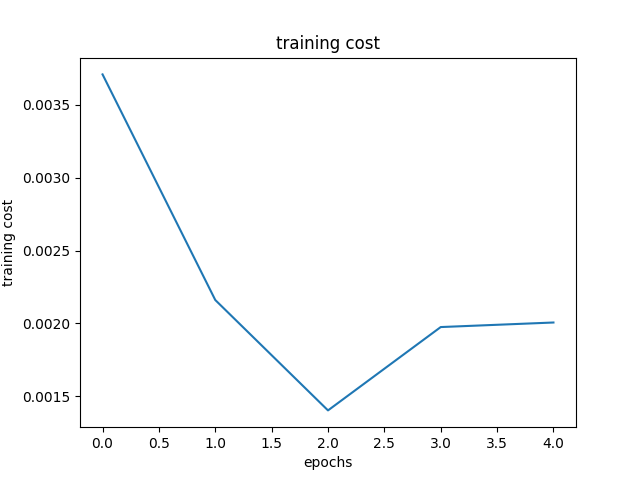
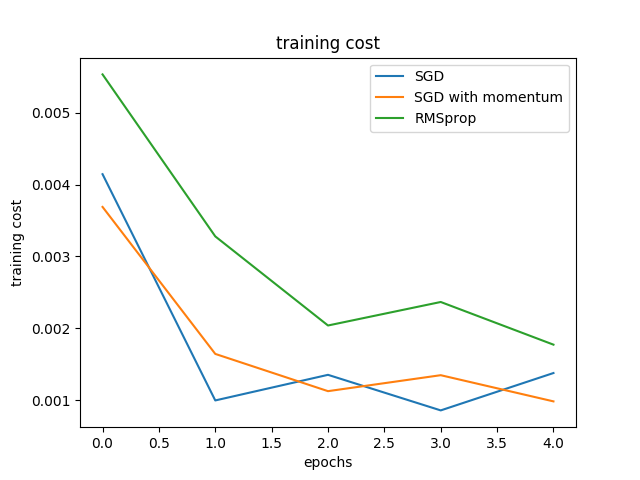
now the training cost and test accuracy are plotted on different curves

diff --git a/project_2/src/part_a/main.py b/project_2/src/part_a/main.py
@@ -76,10 +76,9 @@ def model(X, w1, b1, w2, b2, w3, b3, w4, b4):
     o2 = pool.pool_2d(y2, pool_dim, mode='max')
     o3 = T.flatten(o2, outdim=2)
 
-    #i dont know if this is a fully connected layer??
     y3 = T.nnet.sigmoid(T.dot(o3, w3) + b3)
-
     pyx = T.nnet.softmax(T.dot(y3, w4) + b4)
+    
     return y1, o1, y2, o2, pyx
 
 def sgd(cost, params, lr=0.05, decay=0.0001):
@@ -129,7 +128,7 @@ teX, teY = teX[:2000], teY[:2000]
 
 X = T.tensor4('X')
 Y = T.matrix('Y')
-print('xd2')
+print('xd200')
 num_filters1 = 15
 num_filters2 = 20
 w1, b1 = init_weights_bias4((num_filters1, 1, 9, 9), X.dtype)
@@ -155,9 +154,13 @@ train3 = theano.function(inputs=[X, Y], outputs=cost, updates=updates3, allow_in
 predict = theano.function(inputs=[X], outputs=y_x, allow_input_downcast=True)
 test = theano.function(inputs = [X], outputs=[y1, o1, y2, o2], allow_input_downcast=True)
 
-pylab.figure()
+
 a = []
 trainCost = []
+a2 = []
+trainCost2 = []
+a3 = []
+trainCost3 = []
 
 for i in range(noIters):
     trX, trY = shuffle_data (trX, trY)
@@ -168,8 +171,6 @@ for i in range(noIters):
     trainCost.append(cost/(len(trX) // batch_size))
     print(a[i])
 
-pylab.plot(range(noIters), a, label='test accuracy sgd')
-pylab.plot(range(noIters), trainCost, label='traning cost sgd')
 
 
 print('sgd with momentum ..')
@@ -178,18 +179,14 @@ set_weights_bias4((num_filters2, num_filters1, 5, 5), X.dtype, w2, b2)
 set_weights_bias2((num_filters2*3*3, 100), X.dtype, w3, b3)
 set_weights_bias2((100, 10), X.dtype, w4, b4)
 
-a = []
-trainCost = []
 for i in range(noIters):
     trX, trY = shuffle_data (trX, trY)
     for start, end in zip(range(0, len(trX), batch_size), range(batch_size, len(trX), batch_size)):
         cost = train2(trX[start:end], trY[start:end])
-    a.append(np.mean(np.argmax(teY, axis=1) == predict(teX)))
-    trainCost.append(cost/(len(trX) // batch_size))
+    a2.append(np.mean(np.argmax(teY, axis=1) == predict(teX)))
+    trainCost2.append(cost/(len(trX) // batch_size))
     print(a[i])
 
-pylab.plot(range(noIters), a, label='test accuracy sgd with momentum')
-pylab.plot(range(noIters), trainCost, label='traning cost sgd')
 
 print('RMSprop ..')
 set_weights_bias4((num_filters1, 1, 9, 9), X.dtype, w1, b1)
@@ -197,28 +194,31 @@ set_weights_bias4((num_filters2, num_filters1, 5, 5), X.dtype, w2, b2)
 set_weights_bias2((num_filters2*3*3, 100), X.dtype, w3, b3)
 set_weights_bias2((100, 10), X.dtype, w4, b4)
 
-a = []
-trainCost = []
 for i in range(noIters):
     trX, trY = shuffle_data (trX, trY)
     for start, end in zip(range(0, len(trX), batch_size), range(batch_size, len(trX), batch_size)):
         cost = train3(trX[start:end], trY[start:end])
-    a.append(np.mean(np.argmax(teY, axis=1) == predict(teX)))
-    trainCost.append(cost/(len(trX) // batch_size))
+    a3.append(np.mean(np.argmax(teY, axis=1) == predict(teX)))
+    trainCost3.append(cost/(len(trX) // batch_size))
     print(a[i])
 
-pylab.plot(range(noIters), a, label='test accuracy RMSProp')
-pylab.plot(range(noIters), trainCost, label='traning cost RMSprop')
+pylab.figure()
+pylab.plot(range(noIters), a, label='SGD')
+pylab.plot(range(noIters), a2, label='SGD with momentum')
+pylab.plot(range(noIters), a3, label='RMSprop')
 pylab.xlabel('epochs')
-pylab.ylabel('test accuracy and training cost')
+pylab.ylabel('test accuracy')
 pylab.legend(loc='lower right')
 pylab.title('test accuracy ')
 pylab.savefig('testAccuracy')
 
 pylab.figure()
-pylab.plot(range(noIters), trainCost)
+pylab.plot(range(noIters), trainCost, label='SGD')
+pylab.plot(range(noIters), trainCost2, label='SGD with momentum')
+pylab.plot(range(noIters), trainCost3, label='RMSprop')
 pylab.xlabel('epochs')
 pylab.ylabel('training cost')
+pylab.legend(loc='upper right')
 pylab.title('training cost')
 pylab.savefig('trainingCost')
 
